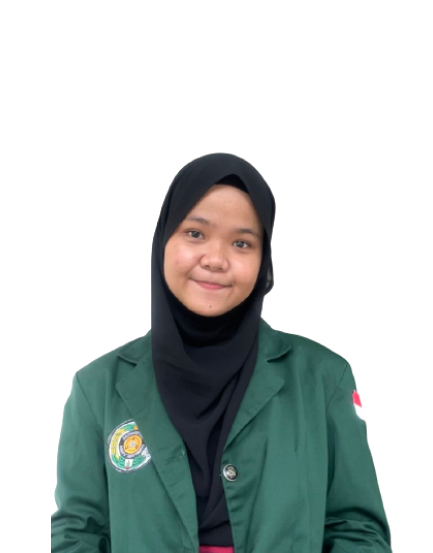
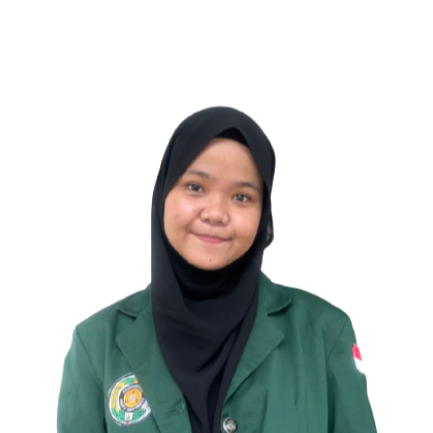
Updated Some Resources and Updated About Us Page

diff --git a/About.html b/About.html
@@ -78,15 +78,70 @@
             <div class="col-md-12 text-center ">
                 <p class="lead text-black font-weight-normal">Kopit Sehat lahir dari sebuah Program Kementerian Pendidikan dan Kebudayaan di lingkup 
                     Perguruan Tinggi, yaitu Program Kreativitas Mahasiswa Skema Kewirausahaan 2023.<br> Kopit 
-                    Sehat dibangun atas inisiasi mahasiswa asal USU :</p>
+                    Sehat dibangun atas inisiasi mahasiswa asal USU.</p>
                 </p>
             </div>
        </div>
     </div>
     </section>
-
+    <section class="wow fadeInDown" id="main-3">
+      <div class="jumbotron">
+        <div class="container custom-container rounded">
+          <p class="text-center h5">Kopit Sehat lahir atas tingginya angka kematian akibat diabetes, hipertensi, dan kanker. Kami tahu membuat perubahan bukanlah hal yang mudah. Kopit Sehat hadir menawarkan solusi dan kecintaan yang sama dengan produk kopi pada umumnya.</p>
+          <p class="text-center h4 font-weight-normal text-warning"> MENCEGAH LEBIH BAIK DARIPADA MENGOBATI</p>
+        </div>
+      </div>
+    </section>
     <section class="wow fadeInDown" id="main-2">
-    <div id="carouselExampleSlidesOnly" class="carousel slide" data-ride="carousel">
+      <div>
+        <div class="title text-center">
+            <h1 class="titleprofile" data-aos="fade-right" data-aos-duration="1000" title="Profile Title">Our Team</h1>
+        </div>
+        <div class="container" id="container">
+          <div class="row text-center">
+            <div class="col-lg-6 pt-5 pt-lg-1" id="profilepad" data-aos="fade-right" data-aos-duration="1000">
+                <img src="./assets/img/profil-taufik.png" class="roundedImage" id="profile">
+                <h4 class="Riyan" title="Riyanda Azis Febrian">Dosen Pembimbing</h4>
+                <h5 class="Riyan" title="Riyanda Azis Febrian">Taufik Akbar P.SE., M.Si.</h5>
+                <p class="Riyan" title="NIM">Fakultas Ekonomi Pembangunan</p>
+            </div>
+            <div class="col-lg-6 pt-5 pt-lg-1" id="profilepad" data-aos="fade-right" data-aos-duration="1000">
+                <img src="./assets/img/profil-mery.jpg" class="roundedImage" id="profile">
+                <h4 class="Riyan" title="Riyanda Azis Febrian">Ketua Tim</h4>
+                <h5 class="Riyan" title="Riyanda Azis Febrian">Mery Christina Sijabat</h5>
+                <p class="Riyan" title="NIM">Fakultas Ekonomi Pembangunan</p>
+            </div>
+          </div>
+        </div>
+        <div class="container rowkedua" id="container">
+          <div class="row text-center">
+              <div class="col-lg-3 pt-5 pt-lg-1" id="profilepad" data-aos="fade-right" data-aos-duration="1000">
+                  <img src="./assets/img/profil-fatya.png" class="roundedImage" id="profile">
+                  <h4 class="Riyan" title="Riyanda Azis Febrian">Anggota Tim</h4>
+                  <h5 class="Riyan" title="Riyanda Azis Febrian">Fatya Khairani</h5>
+                  <p class="Riyan" title="NIM">Fakultas Kesehatan Masyarakat</p>
+              </div>
+              <div class="col-lg-3 pt-5 pt-lg-1" id="profilepad" data-aos="fade-right" data-aos-duration="1000">
+                  <img src="./assets/img/profil-helen.png" class="roundedImage" id="profile">
+                  <h4 class="Riyan" title="Riyanda Azis Febrian">Anggota Tim</h4>
+                  <h5 class="Riyan" title="Riyanda Azis Febrian">Helen</h5>
+                  <p class="Riyan" title="NIM">Fakultas Farmasi</p>
+              </div>
+              <div class="col-lg-3 pt-5 pt-lg-1" id="profilepad" data-aos="fade-right" data-aos-duration="1000">
+                <img src="./assets/img/profil-ardaniel.png" class="roundedImage" id="profile">
+                <h4 class="Riyan" title="Riyanda Azis Febrian">Anggota Tim</h4>
+                <h5 class="Riyan" title="Riyanda Azis Febrian">Ardaniel Euprasia</h5>
+                <p class="Riyan" title="NIM">Fakultas Kedokteran</p>
+              </div>
+              <div class="col-lg-3 pt-5 pt-lg-1" id="profilepad" data-aos="fade-right" data-aos-duration="1000">
+                <img src="./assets/img/profil-sri.png" class="roundedImage" id="profile">
+                <h4 class="Riyan" title="Riyanda Azis Febrian">Anggota Tim</h4>
+                <h5 class="Riyan" title="Riyanda Azis Febrian">Sri Windy Wahyuni</h5>
+                <p class="Riyan" title="NIM">Fakultas Antropologi Sosial</p>
+              </div>
+          </div>
+        </div>
+    <!-- <div id="carouselExampleSlidesOnly" class="carousel slide" data-ride="carousel">
       <div class="carousel-inner">
         <div class="carousel-item active">
                 <div class="container-fluid py-md-5 mx-auto bg-brown rounded">
@@ -136,17 +191,8 @@
             </div>
         </div>
       </div>
-    </div>
+    </div> -->
     </section>
-
-    <section class="wow fadeInDown" id="main-3">
-    <div class="jumbotron">
-      <div class="container custom-container rounded">
-        <p class="text-center h5">Kopit Sehat lahir atas tingginya angka kematian akibat diabetes, hipertensi, dan kanker. Kami tahu membuat perubahan bukanlah hal yang mudah. Kopit Sehat hadir menawarkan solusi dan kecintaan yang sama dengan produk kopi pada umumnya.</p>
-         <p class="text-center h4 font-weight-normal text-warning"> MENCEGAH LEBIH BAIK DARIPADA MENGOBATI</p>
-      </div>
-    </div>
-  </section>
 
     <footer class="text-white">
       <div>

diff --git a/index.html b/index.html
@@ -124,7 +124,7 @@
                 <img src="./assets/img/Production 1.jpg" class="img-responsive production img-fluid">
             </div>
             <div class="col-sm-5 align-items-right" data-aos="fade-right" data-aos-duration="1000">
-              <p class="text-justify h5 text-darkbrown font-weight-normal">Kopit Sehat menggunakan biji kopi arabika premium. Arabika memiliki kafein yang rendah, kualitas yang bagus, serta diperoleh langsung dari Aceh sebagai spesial kopi Indonesia. Kami memastikan bahwa setiap proses perjalanan biji kopi menentukan kualitas secangkir kopi.</p>
+              <p class="text-justify h5 text-black font-weight-normal">Kopit Sehat menggunakan biji kopi arabika premium. Arabika memiliki kafein yang rendah, kualitas yang bagus, serta diperoleh langsung dari Aceh sebagai spesial kopi Indonesia. Kami memastikan bahwa setiap proses perjalanan biji kopi menentukan kualitas secangkir kopi.</p>
               <a href="./production.html"><button class="readmore">Read More</button></a>
             </div>
           </div>
@@ -135,7 +135,7 @@
         <div class="row secondrow">
           <div class="col-sm-5">&nbsp;</div>
           <div class="col-sm-3 pt-lg-5" data-aos="fade-right" data-aos-duration="1000">
-            <h2 class="ourproduct text-brown">Our Product</h2>
+            <h2 class="ourproduct text-darkbrown">Our Product</h2>
             <p class="text-justify h5 text-darkbrown font-weight-normal">Made from Premium Arabica Coffee • Turmeric • Brown Sugar • Soy Milk.</p>
             <p class="text-justify text-darkbrown font-weight-normal enjoy">Nikmati Hari-Hari mu dengan Kopit Sehat <br></p>
             <p class="h5"><b>Only Rp 7.000 / sachet</b></p>
@@ -153,9 +153,9 @@
     <section class="wow fadeInDown" id="main-2">
       <div class="container-fluid bg-light p-md-5 mx-auto">
         <div class="container">
-          <p class="h1 font-weight-bold text-brown text-center">GALLERY</p>
+          <p class="h1 font-weight-bold text-darkbrown text-center">GALLERY</p>
           <center>
-            <hr class="mb-md-5" width="25%" style="height:5px;border:none;color:#C67F61;background-color:#C67F61;">
+            <hr class="mb-md-5" width="25%" style="height:5px;border:none;color:#6D2419;background-color:#6D2419;">
           </center>
           <div class="row justify-content-around mb-md-5">
             <div class="col-md-2">

diff --git a/assets/css/style.css b/assets/css/style.css
@@ -80,7 +80,7 @@ a.nav-link:hover{
 }
 
 .text-darkbrown{
-    color: #57210A;
+    color: #6D2419;
 }
 
 .text-lightbrown{
@@ -117,6 +117,21 @@ a.nav-link:hover{
 .titlecontact{
     margin-top: 75px;
     margin-bottom: 75px;
+}
+
+.titleprofile{
+    margin-top: 75px;
+}
+
+.roundedImage{
+    border-radius: 50%;
+    width: 250px;
+    height: 250px;
+    margin-bottom: 10px;
+}
+
+.rowkedua{
+    padding-bottom: 50px;
 }
 
 .production{
@@ -243,7 +258,7 @@ footer.footerproduct{
     border-radius: 20px;
 }
 .wacapt:hover{
-    background: #57210A;
+    background: #6D2419;
     transition: .2s;
     text-decoration: none;
     color: #FFFF;
@@ -256,7 +271,7 @@ footer.footerproduct{
     border-radius: 20px;
 }
 .igcapt:hover{
-    background: #57210A;
+    background: #6D2419;
     transition: .2s;
     text-decoration: none;
     color: #FFFF;
@@ -266,13 +281,13 @@ footer.footerproduct{
 }
 
 .readmore{
-    background: #57210A;
+    background: #6D2419;
     text-decoration: none;
     color: #FFFF;
     margin-top: 10px;
-    padding: 5px 10px 5px;
+    padding: 5px 15px 5px;
     text-align: center;
-    border-radius: 20px;
+    border-radius: 50px;
 }
 
 .productbg{
